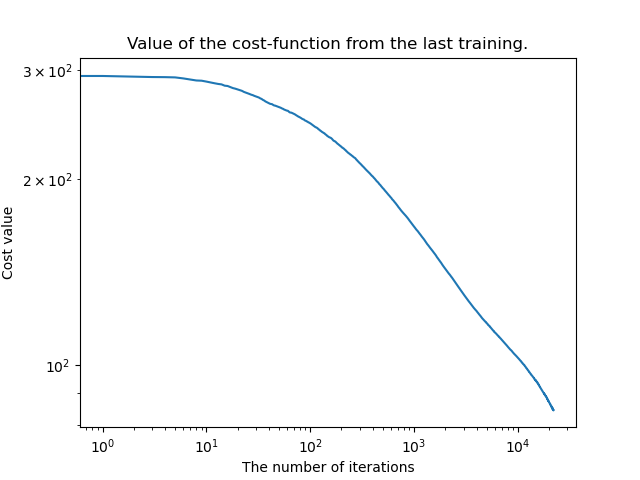
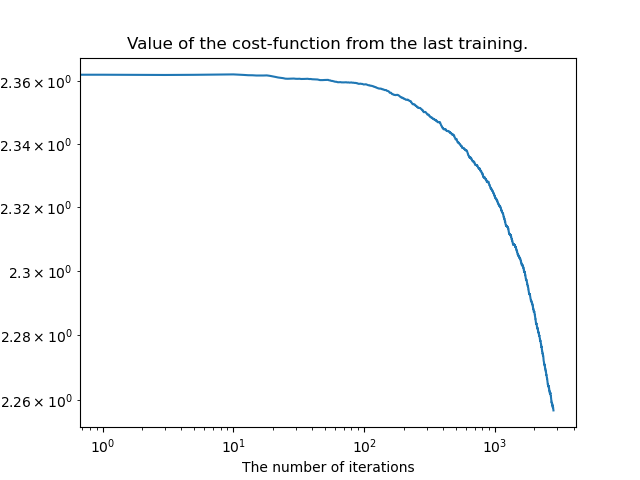
psuh

diff --git a/project3/code/helper.py b/project3/code/helper.py
@@ -9,7 +9,7 @@ from sklearn.model_selection import train_test_split
 from sklearn.utils import resample
 from sklearn.metrics import accuracy_score
 from sklearn.decomposition import PCA
-from sklearn.datasets import load_breast_cancer, load_iris
+from sklearn.datasets import load_breast_cancer, load_iris, fetch_california_housing
 
 import numpy as np
 import seaborn as sns
@@ -462,6 +462,52 @@ def load_iris_data(n, show_explained_ratio=False):
     return X_cancer_train, X_cancer_test, y_cancer_train, y_cancer_test
 
 
+def load_housing_california_data(n, m_observations, show_explained_ratio=False):
+    """
+    Loading the cancer_data from scikit-learn. Selecting the
+    features with the highest explained variance ratio (the first
+    # n) and returning those
+
+    :param n (int):
+        amount of components we want to return
+
+    :return tuple(np.ndarray):
+        - Input data, training
+        - Input data, testing
+        - Target data, training
+        - Target data, testing
+    """
+
+    # Loading cancer data
+    pd = fetch_california_housing()
+    # Parameter labels (if you want, not used)
+
+    # TODO: shuffle the data
+    X_input = pd.data
+    y_target = pd.target    # 0 for benign and 1 for malignant
+    y_target = y_target.reshape(-1, 1)
+
+    # TODO: shuffle the data
+
+    # Selecting the n first components w.r.t. the PCA
+    X_input = X_input[:m_observations, :-1]
+    y_target = X_input[:m_observations, -1]
+
+    pca = PCA(n_components=n)
+    X_nD = pca.fit_transform(X_input)
+
+    if show_explained_ratio:
+        print(
+            f'Total explained variance ratio (of {n} component): {sum(pca.explained_variance_ratio_)}')
+
+    X_nD = X_nD/(X_nD.max(axis=0))
+
+    X_cancer_train, X_cancer_test, y_cancer_train, y_cancer_test = train_test_split(
+        X_nD, y_target)
+
+    return X_cancer_train, X_cancer_test, y_cancer_train, y_cancer_test
+
+
 def load_diabetes_data(n_components, m_observations=1000, show_explained_ratio=False):
     """
     # TODO: docstrings
@@ -532,6 +578,7 @@ def load_housing_data(n_components, m_observations=1000, show_explained_ratio=Fa
         print(pca.explained_variance_ratio_)
 
     X_input_PCA = X_input_PCA/(X_input_PCA.max(axis=0))
+    y_target = y_target/(y_target.max(axis=0))
 
     X_train, X_test, y_train, y_test = train_test_split(
         X_input_PCA, y_target)
@@ -607,20 +654,20 @@ def load_wine_data(n_components, m_observations=1000, show_explained_ratio=False
     X_input = values[:m_observations, :-1]
     y_target = values[:m_observations, -1]
 
-    # pca = PCA(n_components)
+    pca = PCA(n_components)
 
-    # # Only include the "n_components" most important features
-    # X_input_PCA = pca.fit_transform(X_input)
+    # Only include the "n_components" most important features
+    X_input_PCA = pca.fit_transform(X_input)
 
-    # if show_explained_ratio:
-    #     print(pca.explained_variance_ratio_)
-    #     print(sum(pca.explained_variance_ratio_))
+    if show_explained_ratio:
+        print(pca.explained_variance_ratio_)
+        print(sum(pca.explained_variance_ratio_))
 
-    X_input = X_input/(X_input.max(axis=0))
-    # X_input_PCA = X_input_PCA/(X_input_PCA.max(axis=0))
+    # X_input = X_input/(X_input.max(axis=0))
+    X_input_PCA = X_input_PCA/(X_input_PCA.max(axis=0))
 
     X_train, X_test, y_train, y_test = train_test_split(
-        X_input, y_target)
+        X_input_PCA, y_target)
 
     # X_train, y_train = oversampling_of_training_data(X_train, y_train)
 

diff --git a/project3/code/test_project_3.py b/project3/code/test_project_3.py
@@ -845,23 +845,25 @@ test16 = True
 if test16:
     print('>> RUNNING TEST 16:')
     # Loading the training and testing dataset
-    X_train, X_test, y_train, y_test = helper.load_housing_data(2, 100)
+    n_components = 2
+    X_train, X_test, y_train, y_test = helper.load_housing_california_data(
+        n_components, 100)
 
     # Setting the architecture of the Neural Network
-    node_list = [20]*10
+    node_list = [20]
 
     # Initializing the Neural Network
     FFNN = Neural_Network(
-        no_input_nodes=2,
+        no_input_nodes=n_components,
         no_output_nodes=1,
         node_list=node_list
     )
 
     # Setting the preffered Stochastic Gradient Descent parameters
     FFNN.set_SGD_values(
-        n_epochs=100,
+        n_epochs=400,
         batch_size=10,
-        gamma=0.7,
+        gamma=0.3,
         eta=1e-4,
         lmbda=0)
 
